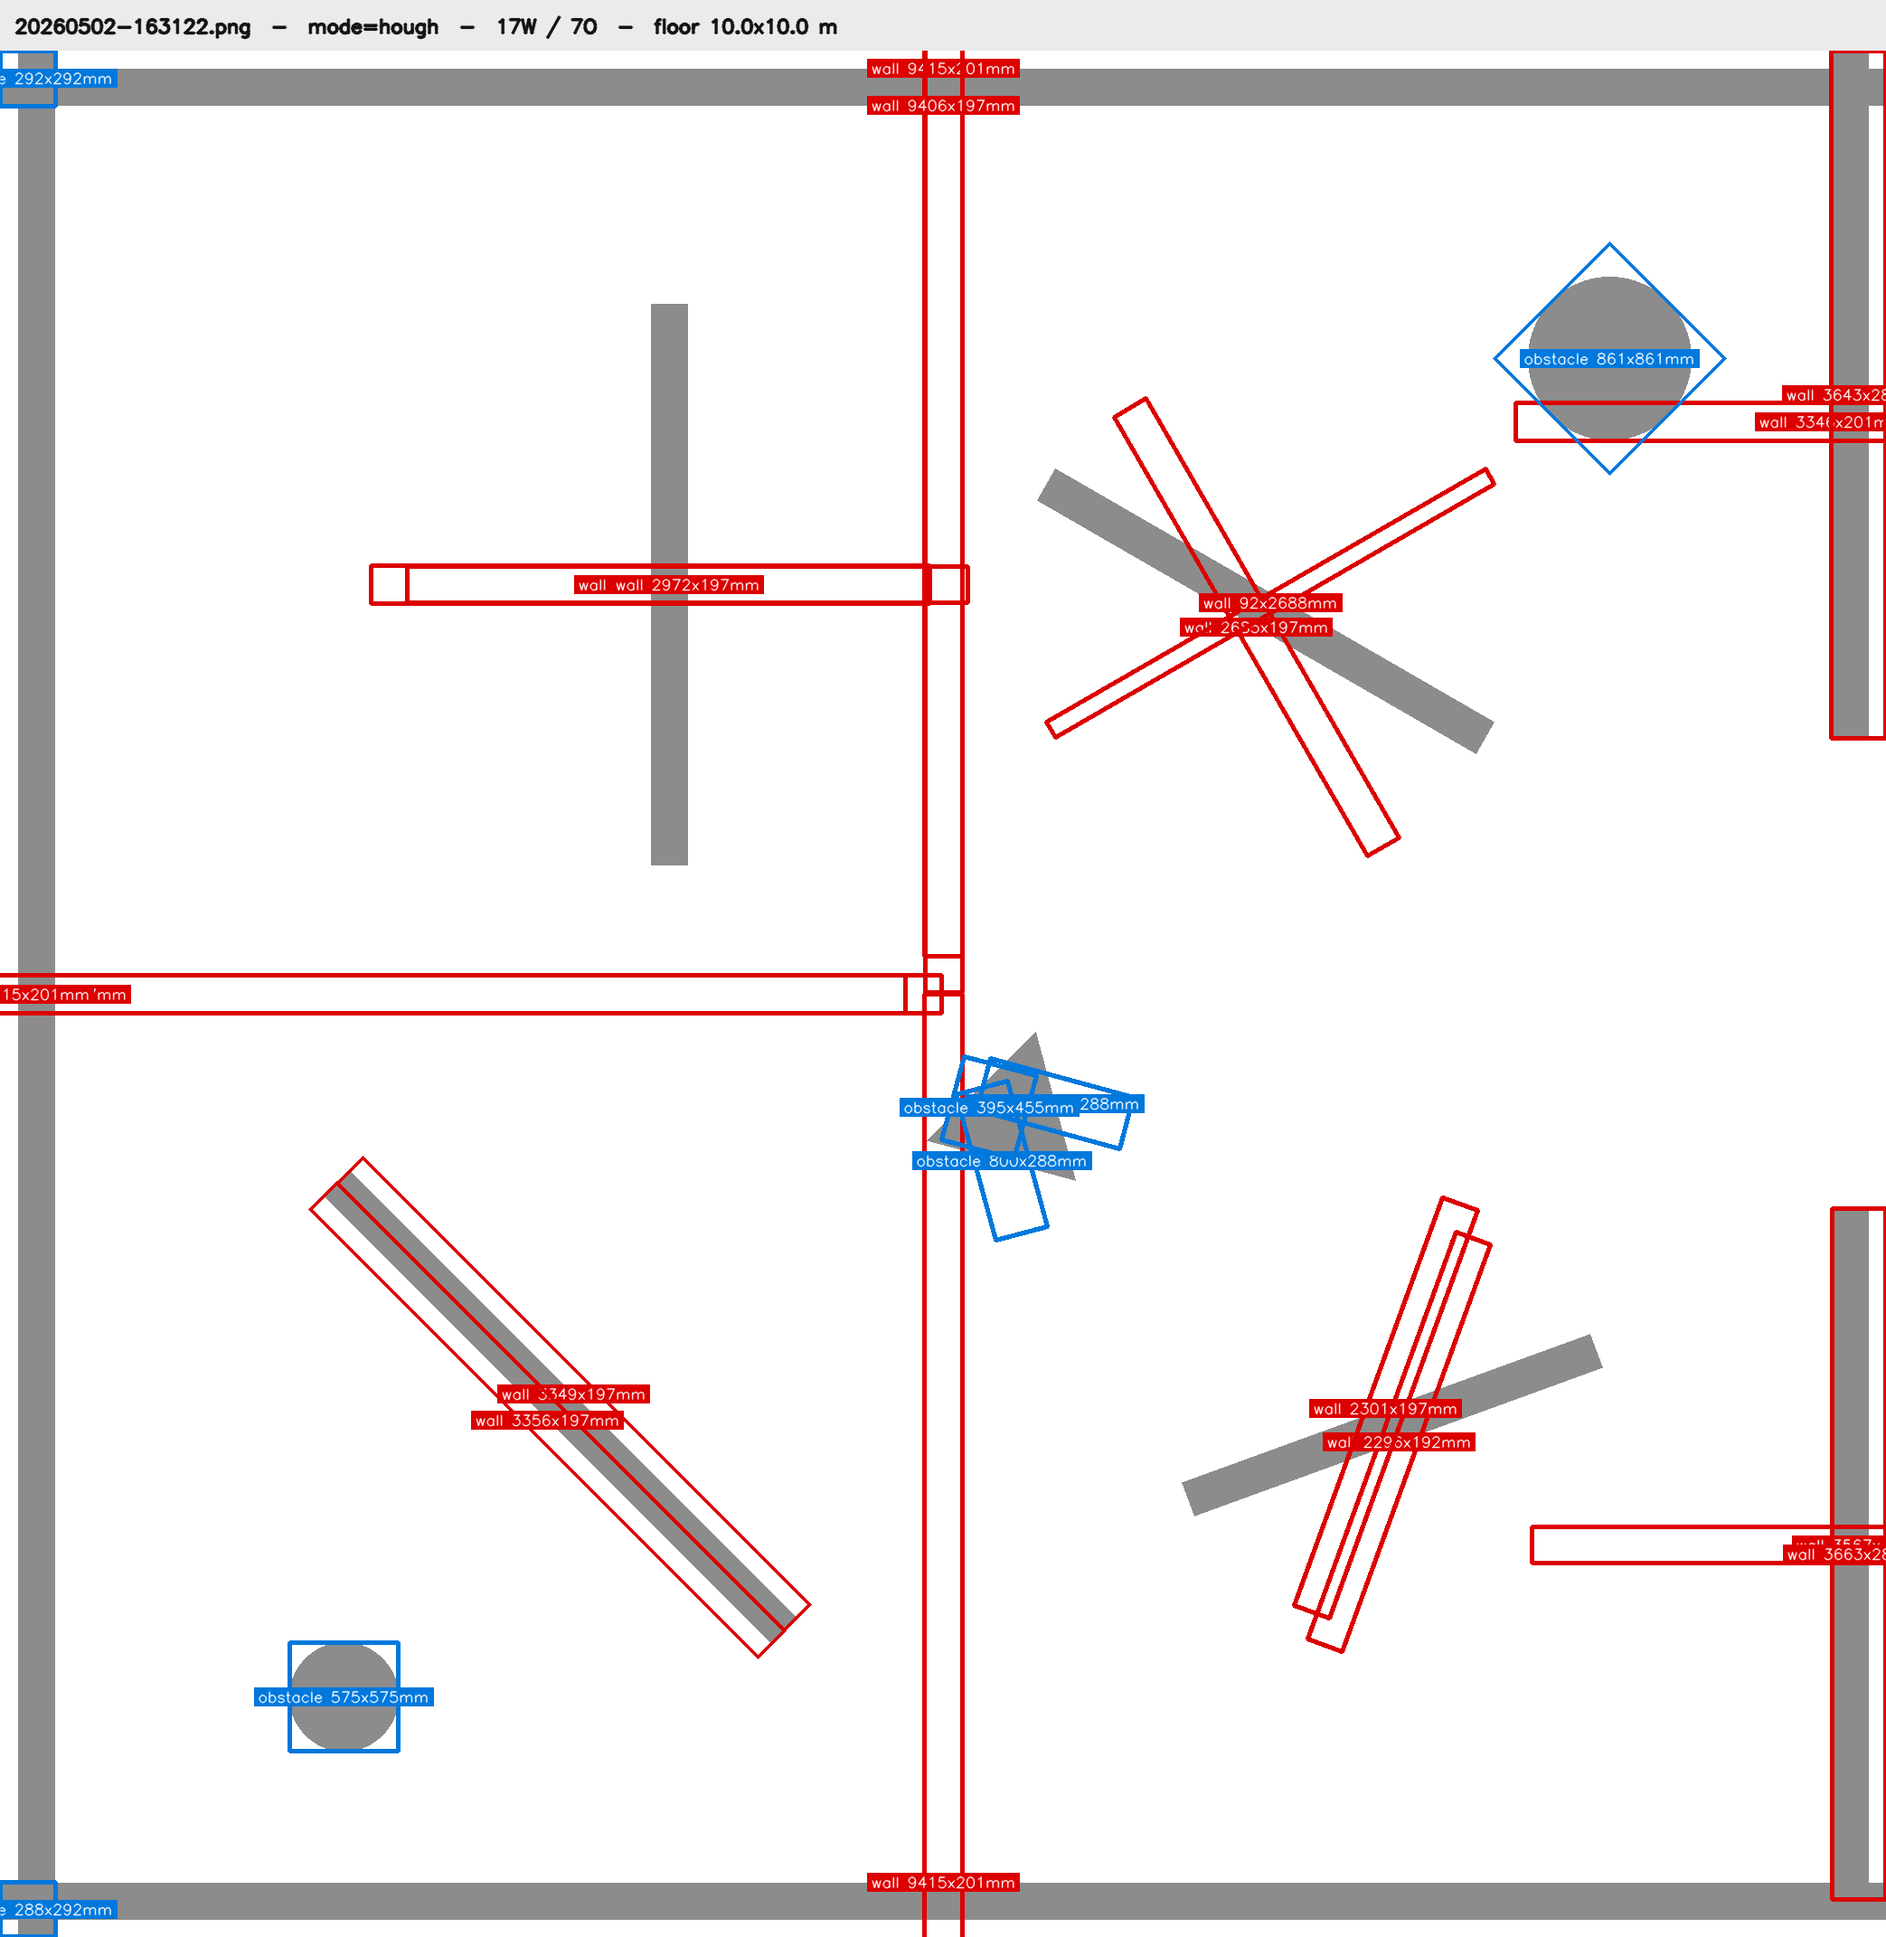
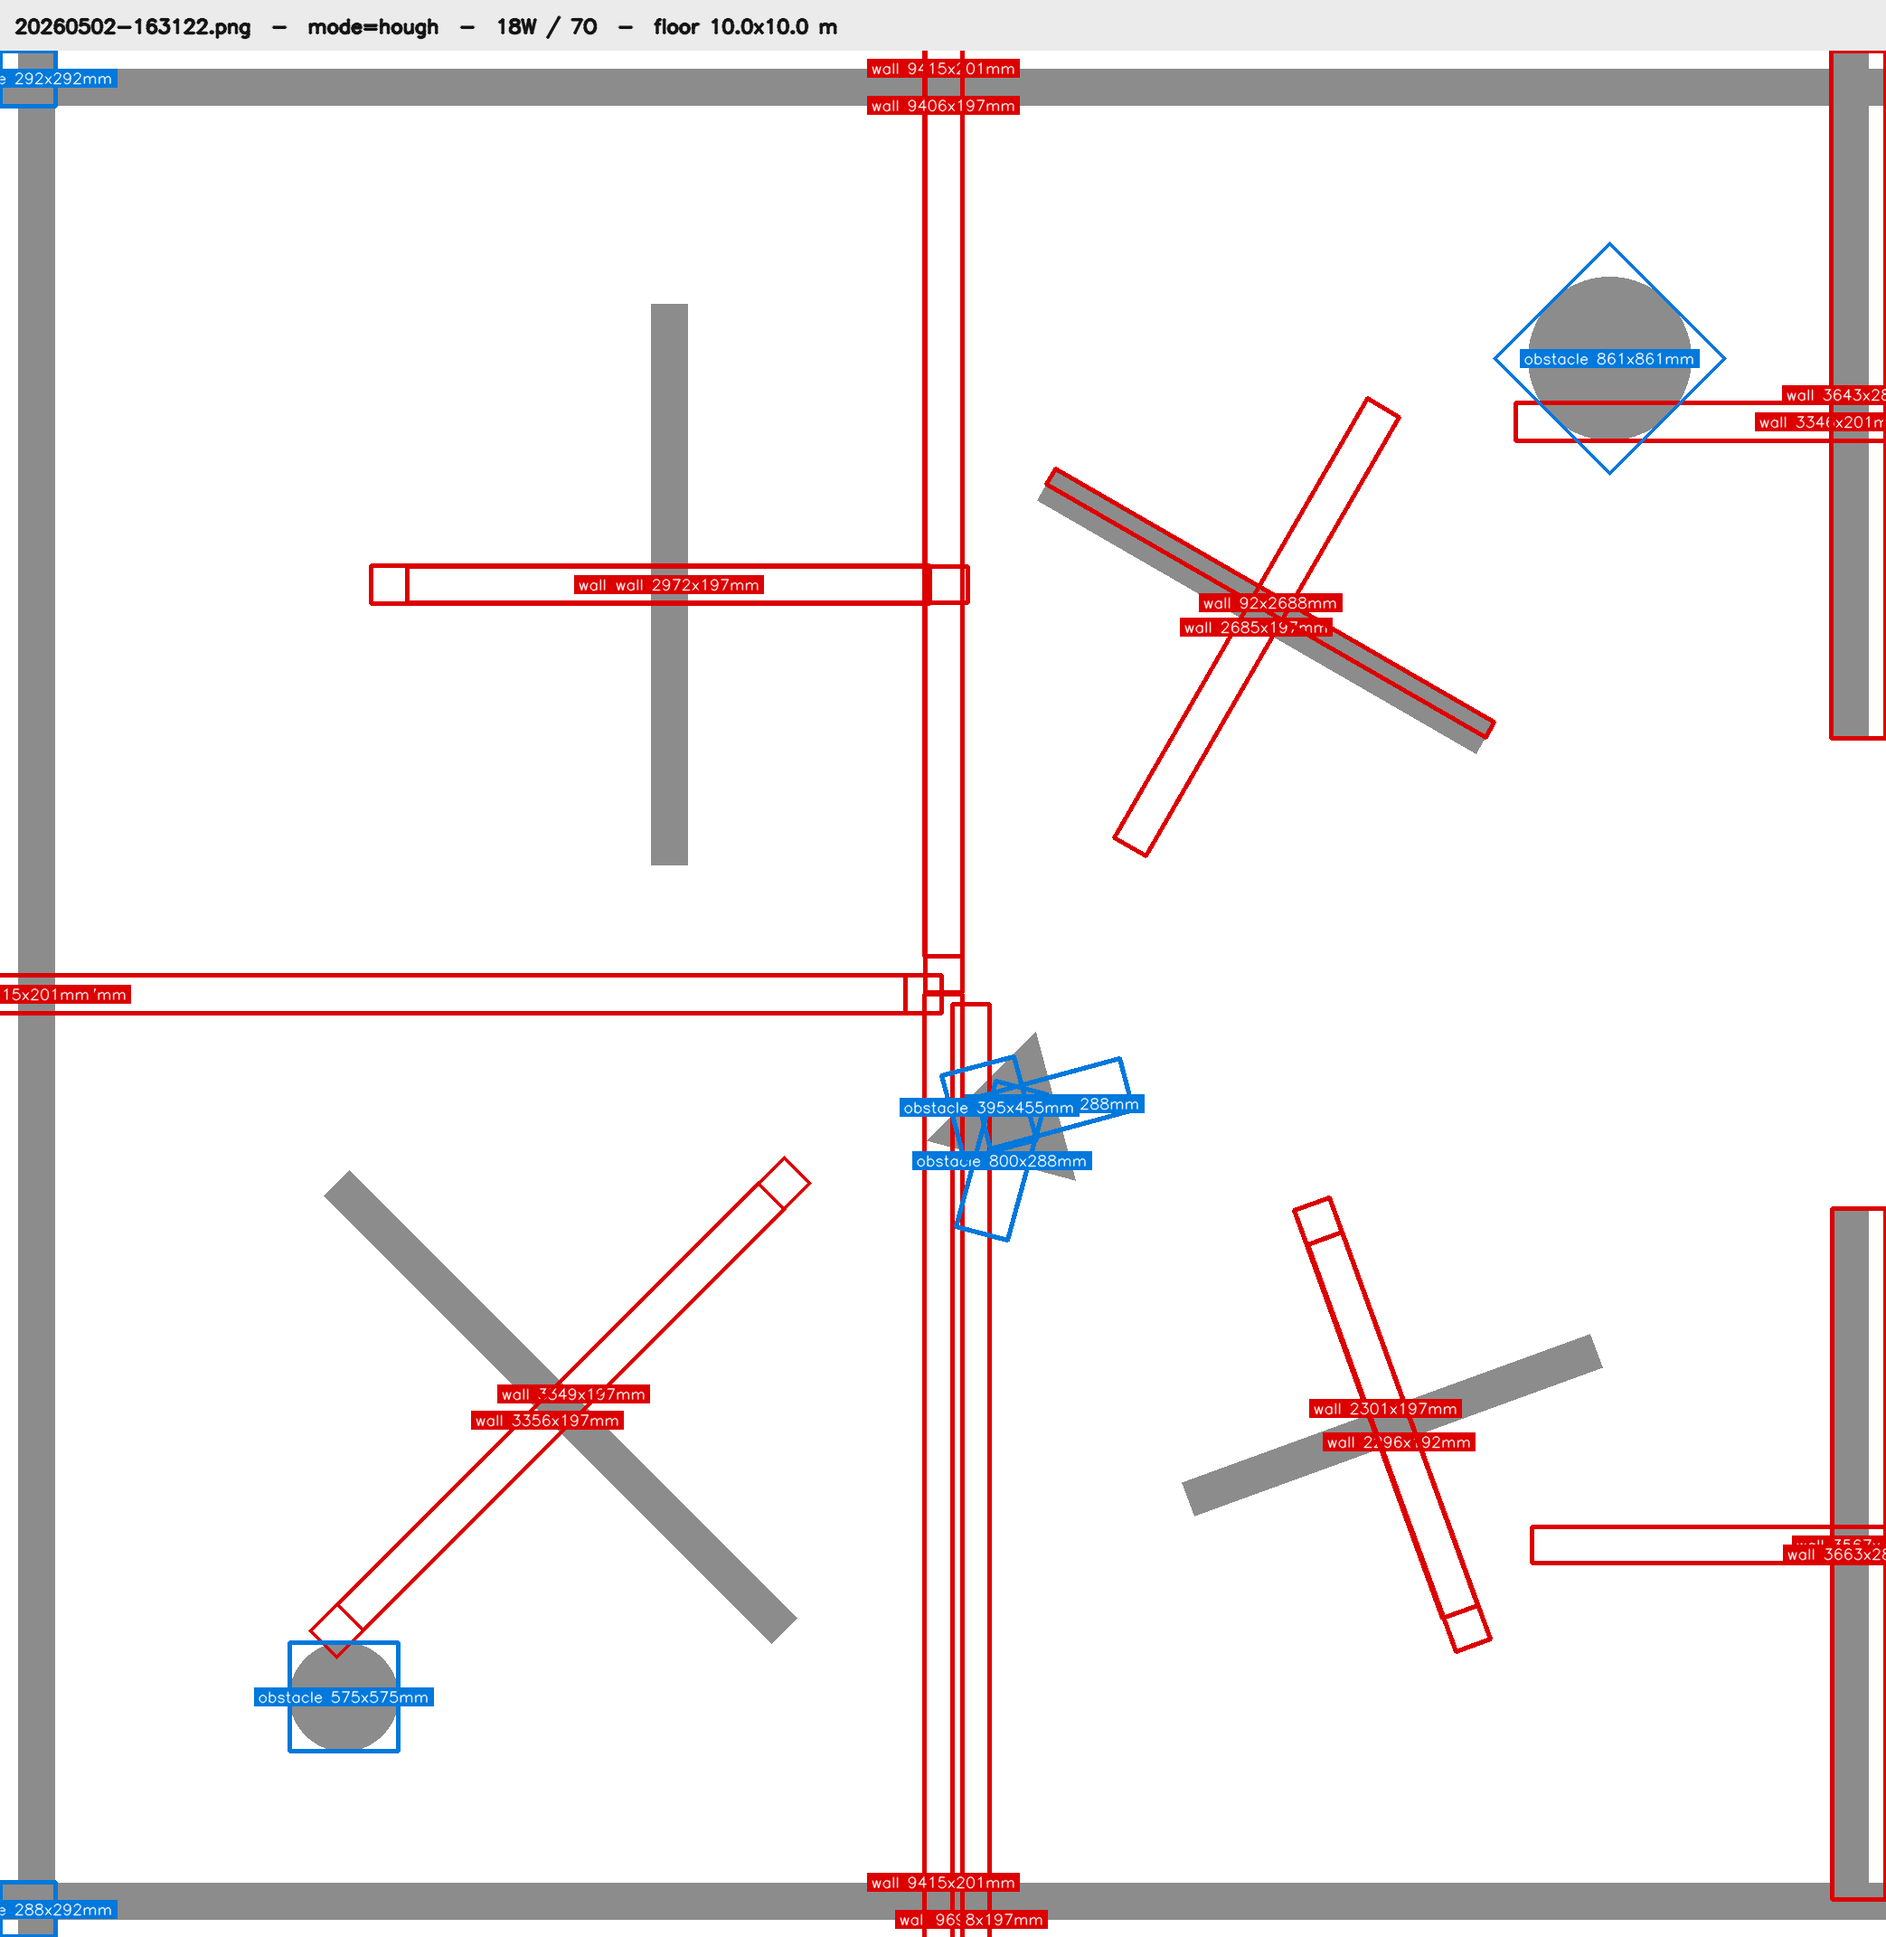
fix(image-cad): 3 bug fixes — angle sign, sparse-outline keep, hybrid prompt
The user pointed out three real failures in the previous build:
  1. rotated rect overlays mirrored about their short axis
  2. cv / hybrid both missed the outer perimeter walls in image 2
  3. hybrid kept producing 4W / 3O even with 6+ visible perimeter
     wall segments

Fix 1 — angle sign (services/image_floor_plan.py)
  cv2.minAreaRect returns angle in PIXEL space (y-down). The world
  frame is y-up (CLAUDE.md convention). _rotated_rect_polygon now
  negates the angle before computing corners, so the polygon drawn
  back in pixel space (after y-flip) actually overlays the source
  shape instead of being mirrored.

Fix 2 — sparse outline keep
  treat_largest_as_boundary used to drop the largest contour by
  area unconditionally. For broken / multi-segment perimeters that
  findContours stitches together via morph-close, the resulting
  giant low-solidity contour was the cell envelope's wall outline
  itself — losing it dropped 4-6 real walls. Now we re-find the
  matched contour, compute solidity = contourArea / bbox_area, and
  ONLY drop when solidity >= 0.5 AND bbox covers >= 90% of image
  (true filled boundary). Sparse outlines fall through and become
  walls / obstacles.

Fix 3 — hybrid prompt + token cap
  HYBRID_MAX_OUTPUT_TOKENS bumped 4096 -> 16384 (the new prompt
  asks for more rects and Gemini was getting truncated mid-JSON,
  which then JSON.loads failed and silently fell back to auto).
  Prompt now explicitly asks the LLM to SPLIT a hollow giant
[…]

diff --git a/backend/app/services/image_floor_plan.py b/backend/app/services/image_floor_plan.py
@@ -72,7 +72,7 @@ logger = logging.getLogger(__name__)
 
 # Gemini Vision config for hybrid mode.
 HYBRID_GEMINI_MODEL = "gemini-2.5-flash"
-HYBRID_MAX_OUTPUT_TOKENS = 4096
+HYBRID_MAX_OUTPUT_TOKENS = 16384
 
 # Tuning constants — see module docstring for what each one controls.
 WALL_ASPECT = 8.0          # max(w,h) / min(w,h) above which a rect is a "wall"
@@ -214,12 +214,54 @@ def parse_image(
     # as the DXF importer.
     # treat_largest_as_boundary applies only to pure-CV modes — the LLM
     # is told to skip the outer frame itself.
+    #
+    # We only drop the largest contour if its bbox covers most of the image
+    # AND it's a SOLID filled blob — the classic "outer wall as one filled
+    # rect" case. We do NOT drop it when it's a thin outline (e.g. four
+    # perimeter wall segments that look like one big sparse contour to
+    # findContours after morph-close bridges the corners), because that
+    # outline IS made of real walls the layout needs to honour.
     if treat_largest_as_boundary and raw and mode != "hybrid":
         idx_largest = max(range(len(raw)), key=lambda i: raw[i][3])
-        boundary_drop = raw.pop(idx_largest)
-        logger.info(
-            "Dropped largest contour (boundary): area=%.1f mm²", boundary_drop[3]
+        cx_px, cy_px = raw[idx_largest][0]
+        w_mm, h_mm = raw[idx_largest][1]
+        # bbox-area in pixels² for solidity check.
+        w_px_box = w_mm / mm_per_px_x
+        h_px_box = h_mm / mm_per_px_y
+        bbox_area_px = w_px_box * h_px_box
+        # Re-find the contour to compute its filled area (we don't carry
+        # the contour through the tuple). Cheap: same binary, RETR_EXTERNAL.
+        contours, _ = cv2.findContours(
+            binary, cv2.RETR_EXTERNAL, cv2.CHAIN_APPROX_SIMPLE,
         )
+        # Match by centroid proximity — minAreaRect centers are stable.
+        best_c, best_d = None, math.inf
+        for c in contours:
+            M = cv2.moments(c)
+            if M["m00"] == 0:
+                continue
+            ccx = M["m10"] / M["m00"]
+            ccy = M["m01"] / M["m00"]
+            d = math.hypot(ccx - cx_px, ccy - cy_px)
+            if d < best_d:
+                best_d, best_c = d, c
+        contour_area_px = cv2.contourArea(best_c) if best_c is not None else 0
+        solidity = contour_area_px / bbox_area_px if bbox_area_px > 0 else 0.0
+        # Bbox covers >= 90% of image AND it's a solid blob (>=0.5 fill)?
+        covers_image = (
+            w_px_box >= 0.9 * w_px and h_px_box >= 0.9 * h_px
+        )
+        if solidity >= 0.5 and covers_image:
+            boundary_drop = raw.pop(idx_largest)
+            logger.info(
+                "Dropped largest contour (solid boundary): area=%.1f mm² solidity=%.2f",
+                boundary_drop[3], solidity,
+            )
+        else:
+            logger.info(
+                "Kept largest contour (sparse outline): area=%.1f mm² solidity=%.2f",
+                raw[idx_largest][3], solidity,
+            )
 
     rects: list[FloorPlanRect] = []
     n_skipped = 0
@@ -506,21 +548,25 @@ def _extract_rects_hybrid(
         f"OpenCV detected the following candidate rectangles (pixel space):\n"
         f"{json.dumps(candidates, indent=2)}\n\n"
         "Your job: produce the FINAL list of rectangles. Be aggressive about "
-        "fixing OpenCV's mistakes. For each output rectangle, return:\n"
+        "fixing OpenCV's mistakes — OpenCV often merges several walls into "
+        "one big sparse contour, which you should split. For each output "
+        "rectangle, return:\n"
         '  {"cx_px": float, "cy_px": float, "w_px": float, "h_px": float, '
         '"angle_deg": float, "kind": "wall" | "obstacle", "label": "<short>"}\n\n'
         "Rules:\n"
-        "- 'wall' = thin / long structure. INCLUDES each individual bar of "
-        "an X / + / T / cross — split them into separate walls.\n"
+        "- 'wall' = thin / long structure. INCLUDES (a) each individual bar "
+        "of an X / + / T / cross, AND (b) each side of the room's outer "
+        "perimeter. If OpenCV gave you ONE giant rect that encloses the "
+        "whole image and is hollow, that's the outer-wall outline — REPLACE "
+        "it with 4 individual wall rectangles, one per visible side "
+        "(top / bottom / left / right). Each side may itself be broken into "
+        "multiple segments if you can see gaps; emit one wall per segment.\n"
         "- 'obstacle' = compact filled or outline shape (column, equipment, "
-        "pallet, machine). KEEP an outline diamond / triangle / circle as "
-        "ONE obstacle, do not split into edges.\n"
-        "- DROP the outermost frame contour (it represents the cell envelope, "
-        "not a wall). Drop text labels, dimension annotations, scale bars.\n"
+        "pallet, machine, circle, triangle, filled square). KEEP each as "
+        "ONE obstacle — do NOT split a polygon outline into its edges.\n"
+        "- Drop text labels, dimension annotations, scale bars, hatching.\n"
         "- If OpenCV merged an X-shape into a single tilted bbox, REPLACE it "
         "with two correctly-oriented thin walls along the actual bars.\n"
-        "- If OpenCV gave a single rect for an outline shape (diamond / "
-        "triangle), KEEP it as one obstacle.\n"
         "- You may add rectangles OpenCV missed and skip ones it hallucinated.\n"
         "Return ONLY a JSON array of objects (no prose, no markdown). Empty "
         "array is allowed if the image has nothing meaningful."
@@ -681,8 +727,15 @@ def _sample_thickness_px(
 def _rotated_rect_polygon(
     cx_mm: float, cy_mm: float, w_mm: float, h_mm: float, angle_deg: float,
 ) -> list[list[float]]:
-    """4-corner closed polygon for a rotated rect, world coords (mm)."""
-    angle = math.radians(angle_deg)
+    """4-corner closed polygon for a rotated rect, world coords (mm).
+
+    The angle came from cv2.minAreaRect, which works in PIXEL space
+    (y-down). Our world frame is y-up (CLAUDE.md convention), so a
+    rotation that swept clockwise in the image becomes counter-clockwise
+    in world coords. Negate the angle to compensate — without this, every
+    rotated rect was drawn mirrored about its short axis.
+    """
+    angle = math.radians(-angle_deg)
     cos_a = math.cos(angle)
     sin_a = math.sin(angle)
     hw = w_mm / 2.0
